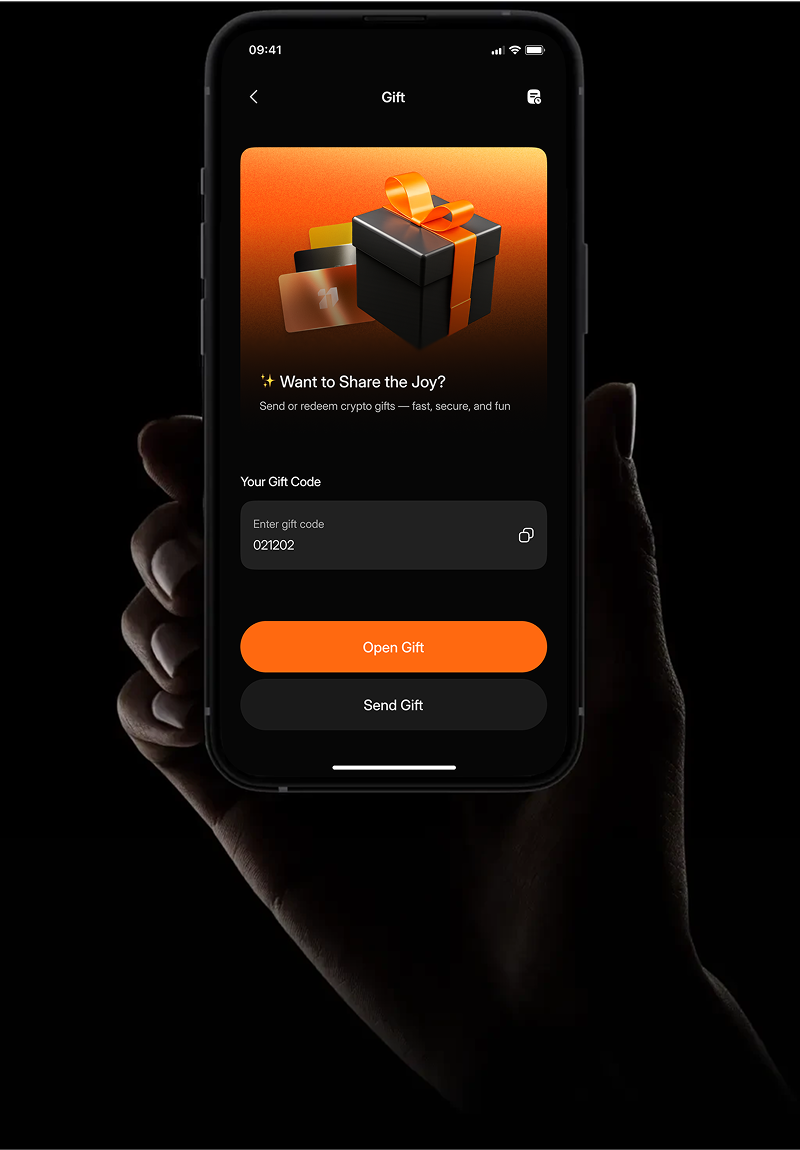
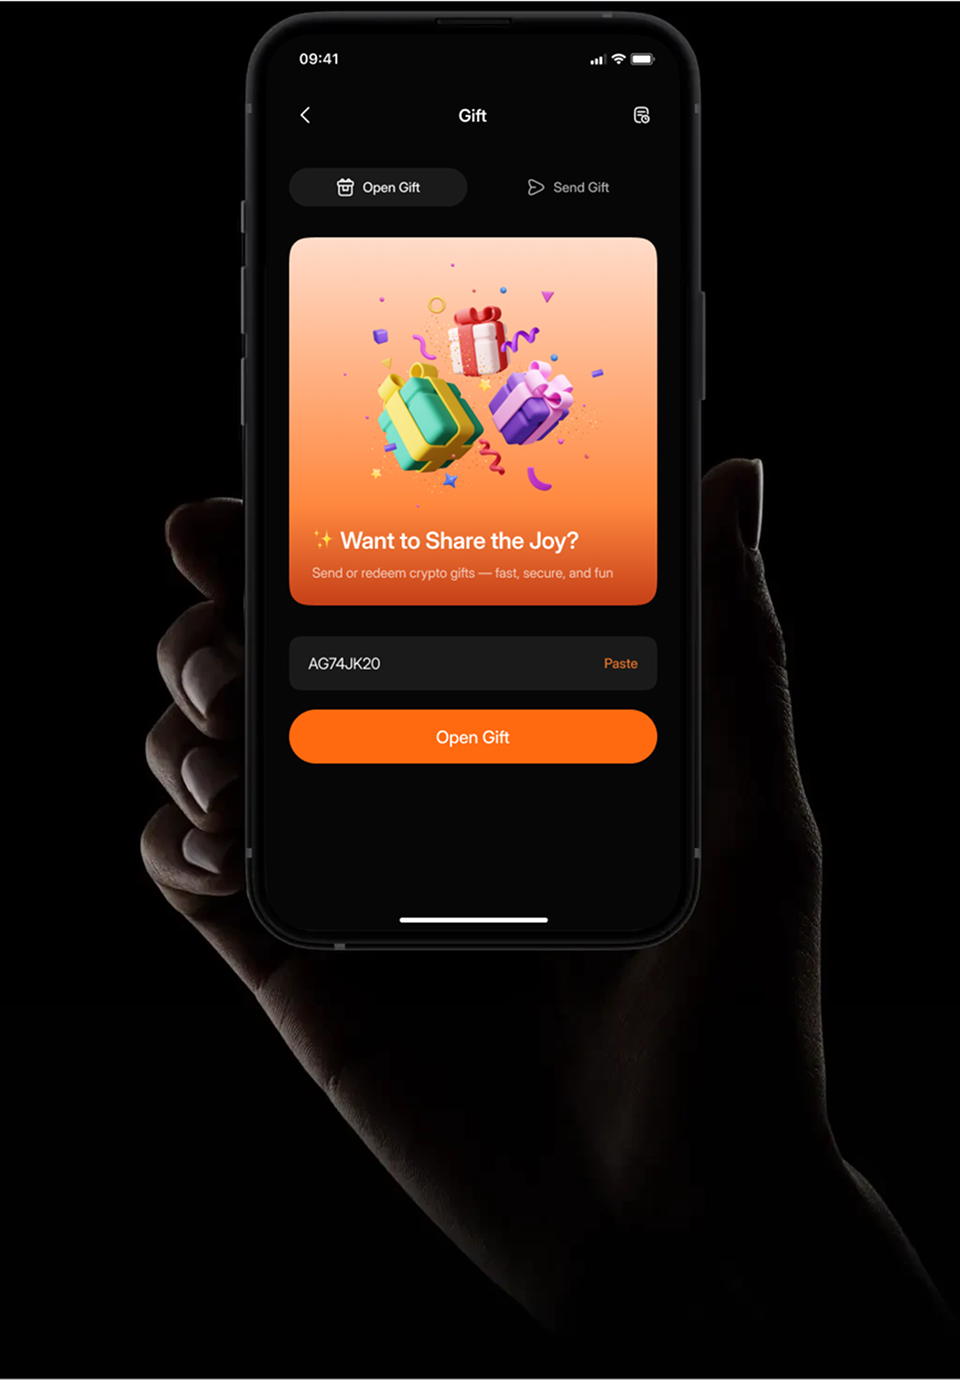
fix: update design

diff --git a/src/components/home/open-account/index.tsx b/src/components/home/open-account/index.tsx
@@ -84,27 +84,27 @@ const OpenAccount = () => {
     });
 
     const fixedHeight = useMemo(() => {
-        if (is2xl) return 580;
-        if (isXl) return 580;
+        if (is2xl) return 710;
+        if (isXl) return 710;
         // if (isLg) return 620;
-        return 584;
+        return 760;
     }, [is2xl, isXl, isLg]);
 
     return (
         <ReactLenis root>
-            <div className="bg-[#060606] pt-[64px] px-4 xl:pt-20 xl:px-[120px]">
+            <div className="bg-[#060606] pt-[64px] px-4 xl:pt-[120px] xl:px-[140px]">
                 <div className='container mx-auto'>
                     <h3 className='text-white text-[32px] xl:text-[48px] font-semibold'>{t('openAccount.title')}</h3>
                     <p className='text-[#aeaeae] text-sm xl:text-lg font-normal mt-6 mb-20'>{t('openAccount.desc')}</p>
 
-                    <div className='flex justify-between'>
+                    <div className='flex xl:gap-x-20 h-[3820px] lg:h-full'>
                         <div className='w-full h-full lg:w-[800px] relative pb-[500px] xl:pb-[200px]'>
-                            <div className='flex flex-col gap-y-[480px]'>
+                            <div className='flex flex-col gap-y-[630px] lg:gap-y-[580px]'>
                                 {t.raw('openAccount.steps').map((step: { title: string; desc: string }, index: number) => {
                                     return (
-                                        <div key={index} className={`stepPanel flex items-start justify-between h-[108px]`}>
+                                        <div key={index} className={`stepPanel flex items-start justify-between h-[130px]`}>
                                             <div className='content-wrapper'>
-                                                <div className='flex gap-x-6 xl:gap-x-12'>
+                                                <div className='flex gap-x-6 xl:gap-x-[64px]'>
                                                     <div className='relative z-[10]'>
                                                         <p
                                                             className={`${index === activeStep ? "bg-[#FF6910] border-none" : "bg-[#212121] border-white/16"}
@@ -114,14 +114,14 @@ const OpenAccount = () => {
                                                     </div>
                                                     <div>
                                                         <div>
-                                                            <p className='text-white text-2xl lg:text-[40px] 2xl:text-[60px] font-medium'>{step.title}</p>
-                                                            <p className='text-[#aeaeae] text-sm xl:text-xl font-medium mt-4 xl:mt-0'>{step.desc}</p>
-                                                        </div>
-                                                        <div className={`transition-all ease-linear duration-150 bg-[#060606] block mx-auto xl:hidden mt-12 w-[250px] md:w-[300px]`}>
-                                                            <Image src={stepAccount[index].image} alt='image' className=' mix-blend-lighten w-full h-full' />
+                                                            <p className='text-white text-2xl lg:text-[40px] font-medium'>{step.title}</p>
+                                                            <p className='text-[#aeaeae] text-sm xl:text-xl font-medium mt-4 lg:mt-6'>{step.desc}</p>
                                                         </div>
                                                     </div>
 
+                                                </div>
+                                                <div className={`py-12  transition-all ease-linear duration-150 bg-[#060606] md:mx-auto block xl:hidden  w-full max-w-[400px] md:w-[400px]`}>
+                                                    <Image src={stepAccount[index].image} alt='image' className=' mix-blend-lighten w-full h-full' />
                                                 </div>
                                             </div>
                                         </div>
@@ -142,7 +142,7 @@ const OpenAccount = () => {
                                 </motion.div>
                             </>
                         </div>
-                        <div className='sticky hidden xl:flex justify-end h-[575px] min-w-[400px] w-[400px] top-[calc(50%-288px)]'>
+                        <div className='sticky hidden xl:flex justify-end h-[690px] min-w-[480px] w-[480px] top-[calc(50%-288px)]'>
                             <div className={`${activeStep !== -1 ? "opacity-100" : "opacity-0"} transition-all ease-linear duration-150 bg-[#060606]`}>
                                 <Image src={stepAccount[activeStep].image} alt='image' className=' mix-blend-lighten' />
                             </div>
